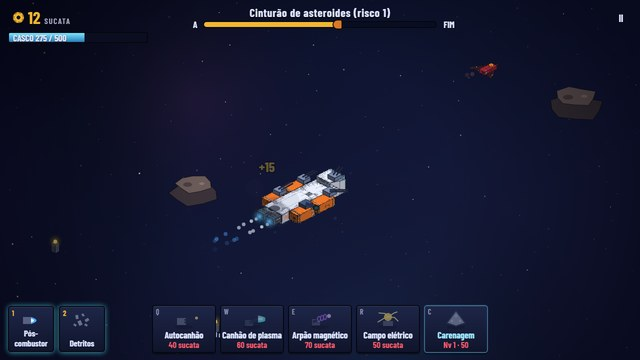
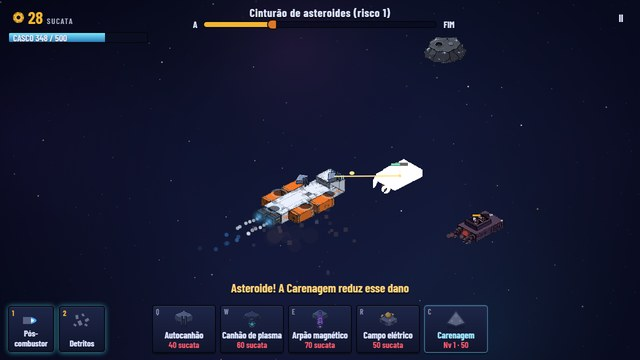
feat(space-hauler): lote completo da arte PixelLab
Estilo aprovado no teste; geradas as peças que faltavam com a mesma receita:
drone, nave de abordagem, pirata a bordo, as duas peças do Cruzador, os
outros dois asteroides e as 4 torres em 8 direções. Miniatura do hub
atualizada.

diff --git a/Sprites/SpaceHauler/anchors.js b/Sprites/SpaceHauler/anchors.js
@@ -11,9 +11,204 @@ window.SH_SPRITES = {
     "ax": 46,
     "ay": 25
   },
+  "drone": {
+    "path": "enemies/drone",
+    "ax": 22,
+    "ay": 31
+  },
+  "boarder": {
+    "path": "enemies/boarder",
+    "ax": 52,
+    "ay": 45
+  },
+  "cruiser-bow": {
+    "path": "enemies/cruiser-bow",
+    "ax": -18,
+    "ay": 92
+  },
+  "cruiser-hull": {
+    "path": "enemies/cruiser-hull",
+    "ax": 151,
+    "ay": 77
+  },
+  "pirate": {
+    "path": "enemies/pirate",
+    "ax": 13,
+    "ay": 39
+  },
+  "turret-cannon-south": {
+    "path": "turrets/cannon/south",
+    "ax": 20,
+    "ay": 21
+  },
+  "turret-cannon-south-east": {
+    "path": "turrets/cannon/south-east",
+    "ax": 20,
+    "ay": 21
+  },
+  "turret-cannon-east": {
+    "path": "turrets/cannon/east",
+    "ax": 20,
+    "ay": 21
+  },
+  "turret-cannon-north-east": {
+    "path": "turrets/cannon/north-east",
+    "ax": 20,
+    "ay": 21
+  },
+  "turret-cannon-north": {
+    "path": "turrets/cannon/north",
+    "ax": 20,
+    "ay": 21
+  },
+  "turret-cannon-north-west": {
+    "path": "turrets/cannon/north-west",
+    "ax": 20,
+    "ay": 21
+  },
+  "turret-cannon-west": {
+    "path": "turrets/cannon/west",
+    "ax": 20,
+    "ay": 21
+  },
+  "turret-cannon-south-west": {
+    "path": "turrets/cannon/south-west",
+    "ax": 20,
+    "ay": 21
+  },
+  "turret-plasma-south": {
+    "path": "turrets/plasma/south",
+    "ax": 20,
+    "ay": 20
+  },
+  "turret-plasma-south-east": {
+    "path": "turrets/plasma/south-east",
+    "ax": 20,
+    "ay": 20
+  },
+  "turret-plasma-east": {
+    "path": "turrets/plasma/east",
+    "ax": 20,
+    "ay": 20
+  },
+  "turret-plasma-north-east": {
+    "path": "turrets/plasma/north-east",
+    "ax": 20,
+    "ay": 20
+  },
+  "turret-plasma-north": {
+    "path": "turrets/plasma/north",
+    "ax": 20,
+    "ay": 20
+  },
+  "turret-plasma-north-west": {
+    "path": "turrets/plasma/north-west",
+    "ax": 20,
+    "ay": 20
+  },
+  "turret-plasma-west": {
+    "path": "turrets/plasma/west",
+    "ax": 20,
+    "ay": 20
+  },
+  "turret-plasma-south-west": {
+    "path": "turrets/plasma/south-west",
+    "ax": 20,
+    "ay": 20
+  },
+  "turret-harpoon-south": {
+    "path": "turrets/harpoon/south",
+    "ax": 26,
+    "ay": 23
+  },
+  "turret-harpoon-south-east": {
+    "path": "turrets/harpoon/south-east",
+    "ax": 26,
+    "ay": 23
+  },
+  "turret-harpoon-east": {
+    "path": "turrets/harpoon/east",
+    "ax": 26,
+    "ay": 23
+  },
+  "turret-harpoon-north-east": {
+    "path": "turrets/harpoon/north-east",
+    "ax": 26,
+    "ay": 23
+  },
+  "turret-harpoon-north": {
+    "path": "turrets/harpoon/north",
+    "ax": 26,
+    "ay": 23
+  },
+  "turret-harpoon-north-west": {
+    "path": "turrets/harpoon/north-west",
+    "ax": 26,
+    "ay": 23
+  },
+  "turret-harpoon-west": {
+    "path": "turrets/harpoon/west",
+    "ax": 26,
+    "ay": 23
+  },
+  "turret-harpoon-south-west": {
+    "path": "turrets/harpoon/south-west",
+    "ax": 26,
+    "ay": 23
+  },
+  "turret-field-south": {
+    "path": "turrets/field/south",
+    "ax": 24,
+    "ay": 30
+  },
+  "turret-field-south-east": {
+    "path": "turrets/field/south-east",
+    "ax": 24,
+    "ay": 30
+  },
+  "turret-field-east": {
+    "path": "turrets/field/east",
+    "ax": 24,
+    "ay": 30
+  },
+  "turret-field-north-east": {
+    "path": "turrets/field/north-east",
+    "ax": 24,
+    "ay": 30
+  },
+  "turret-field-north": {
+    "path": "turrets/field/north",
+    "ax": 24,
+    "ay": 30
+  },
+  "turret-field-north-west": {
+    "path": "turrets/field/north-west",
+    "ax": 24,
+    "ay": 30
+  },
+  "turret-field-west": {
+    "path": "turrets/field/west",
+    "ax": 24,
+    "ay": 30
+  },
+  "turret-field-south-west": {
+    "path": "turrets/field/south-west",
+    "ax": 24,
+    "ay": 30
+  },
+  "asteroid-1": {
+    "path": "asteroids/asteroid-1",
+    "ax": 40,
+    "ay": 38
+  },
   "asteroid-2": {
     "path": "asteroids/asteroid-2",
     "ax": 44,
     "ay": 39
+  },
+  "asteroid-3": {
+    "path": "asteroids/asteroid-3",
+    "ax": 43,
+    "ay": 37
   }
 };

diff --git a/Sprites/SpaceHauler/README.md b/Sprites/SpaceHauler/README.md
@@ -2,14 +2,14 @@
 
 Sprites do protótipo `prototipos/space-hauler/`, que os carrega direto desta pasta (renomear um PNG quebra o jogo; ele volta ao desenho vetorial daquele objeto).
 
-**Estado: teste de estilo.** Só 3 sprites existem: a nave (`ship.png`), o caça pirata (`enemies/fighter.png`) e um asteroide (`asteroids/asteroid-2.png`). A comparação com as formas vetoriais está em `_style-test/vetor_x_pixel.png`, e uma cena do jogo com eles em `_style-test/cena.png`. O lote completo (os outros inimigos, as torres em 8 direções e os outros asteroides) espera a aprovação do estilo. Enquanto isso, o protótipo desenha por código o que não tem sprite.
+**Estado: completo.** O estilo foi aprovado no teste com 3 sprites (nave, caça e um asteroide; comparação em `_style-test/vetor_x_pixel.png`) e depois o lote inteiro foi gerado com a mesma receita (prévia em `_style-test/lote.png`). Se um sprite não carregar, o protótipo volta ao desenho vetorial daquele objeto.
 
 | Pasta | Conteúdo |
 |---|---|
 | `ship.png` | A nave de carga do jogador, sem as armas (elas são sprites à parte, nos hardpoints). |
-| `enemies/` | `fighter` (caça pirata). Faltam `drone`, `boarder`, `pirate`, `cruiser-bow` e `cruiser-hull`. |
-| `asteroids/` | `asteroid-2`. Faltam `asteroid-1` e `asteroid-3`. |
-| `turrets/<id>/<direção>.png` | (a fazer) as 4 defesas (`cannon`, `plasma`, `harpoon`, `field`) nas 8 direções do PixelLab. |
+| `enemies/` | `fighter` (caça pirata), `drone` (drone kamikaze), `boarder` (nave de abordagem), `pirate` (pirata a bordo), `cruiser-bow` e `cruiser-hull` (as duas peças do Cruzador). |
+| `asteroids/` | `asteroid-1`, `asteroid-2` e `asteroid-3` (o jogo sorteia um por rocha). |
+| `turrets/<id>/<direção>.png` | As 4 defesas (`cannon`, `plasma`, `harpoon`, `field`) nas 8 direções do PixelLab (`south`, `south-east`, `east`... `south-west`). O jogo escolhe a direção mais perto da mira. |
 | `anchors.js` | Gerado. Para cada sprite, o caminho e o **ponto de apoio no plano** (âncora, em px do PNG). |
 | `pixellab-assets.json` | Gerado. De qual job do PixelLab veio cada sprite. |
 | `_refs/` | As referências vetoriais exportadas do protótipo (e `refs.json`, com as âncoras). |
@@ -23,6 +23,8 @@ O mesmo do Fury Hauler: **isométrico 2:1, pixel art com contorno escuro seletiv
 Igual à do Fury Hauler (ver `Sprites/FuryHauler/README.md`):
 
 1. **Exportar as referências:** `python _tools/exportar_refs.py` (abre o protótipo com `#refs` no Chrome headless).
-2. **Redesenhar no PixelLab:** `edit_image_pro_flash` com `method: text`, `no_background: true` e a referência como imagem. O pedido começa com *"Redraw as detailed isometric pixel art, keeping exactly the same silhouette, size, position and camera angle: ..."* e termina com *"Clean pixel art, selective dark outline, light from upper-left, no ground, no cast shadow, transparent background."* Os 3 do teste usaram seed 11.
+2. **Redesenhar no PixelLab:** `edit_image_pro_flash` com `method: text`, `no_background: true` e a referência como imagem. O pedido começa com *"Redraw as detailed isometric pixel art, keeping exactly the same silhouette, size, position and camera angle: ..."* e termina com *"Clean pixel art, selective dark outline, light from upper-left, no ground, no cast shadow, transparent background."* Seed 11 em quase todos (os asteroides 1 e 3 usaram 12 e 13, para variar).
 3. **Torres em 8 direções:** `create_object_pro_flash` com `n_directions: 8` a partir da imagem editada.
 4. **Baixar:** `python _tools/baixar.py <nome>=<job_id> ...` (ex.: `enemies/drone=<job>`, `turrets/cannon=obj8:<id>`). Grava os PNGs, atualiza o `pixellab-assets.json` e reescreve o `anchors.js`.
+
+O Cruzador é dividido em proa e casco porque inteiro passa do limite de 256 px do PixelLab. As duas peças têm a mesma âncora (o centro do Cruzador no plano), então encaixam sozinhas.

diff --git a/prototipos/space-hauler/README.md b/prototipos/space-hauler/README.md
@@ -20,7 +20,7 @@ Começou como cópia de [`../fury-hauler/`](../fury-hauler/) (mesma estrutura: `
 - **Desbloqueios permanentes** placeholder: plasma ao concluir 1 trecho numa run, arpão ao concluir 3. Save no `localStorage`.
 - **Espaço isométrico** com a projeção do guia Unity: não há chão; a profundidade vem das estrelas em parallax, das boias da rota a cada 100 m e dos portais de salto no começo e no fim de cada trecho.
 
-A arte ainda é **vetorial**, desenhada por código. Os sprites PixelLab entram em `Sprites/SpaceHauler/` depois do teste de estilo (o `anchors.js` de lá começa vazio). Cada objeto tem um nome de sprite pronto (`ship`, `fighter`, `drone`, `boarder`, `pirate`, `cruiser-bow`, `cruiser-hull`, `turret-<id>-<direção>`, `asteroid-1..3`), e `#refs` exporta as referências vetoriais, como no Fury Hauler.
+- **Arte PixelLab** em `Sprites/SpaceHauler/` (ver o `README.md` de lá): nave, inimigos, Cruzador, pirata a bordo, as 4 torres em 8 direções e 3 asteroides, no estilo do Fury Hauler. Cada sprite é um redesenho da forma vetorial do protótipo, então se um não carregar (ou com `#vector`) o objeto volta ao desenho por código. O fundo de estrelas, os planetas, as boias e os efeitos continuam desenhados por código.
 
 ## Controles
 - **Mouse:** clique numa defesa da barra e depois num hardpoint vazio; clique numa defesa montada para melhorar ou vender. Botão direito cancela.
